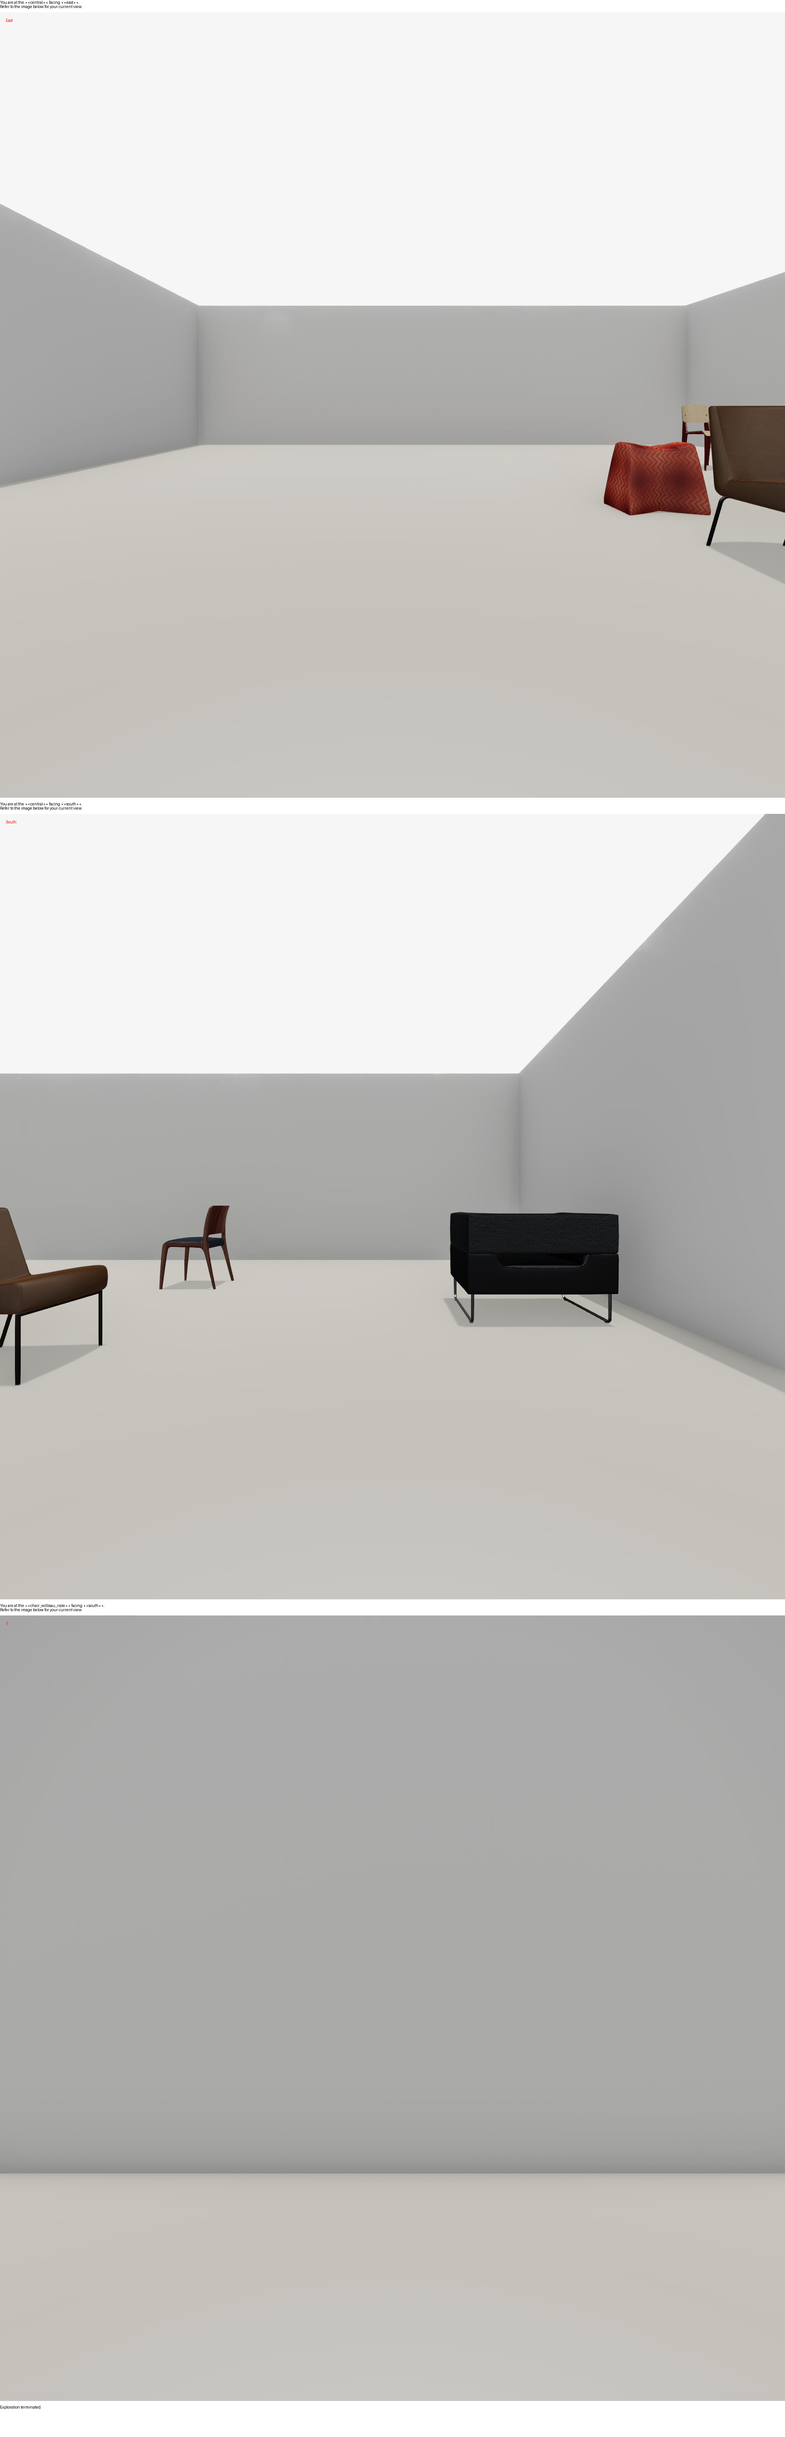
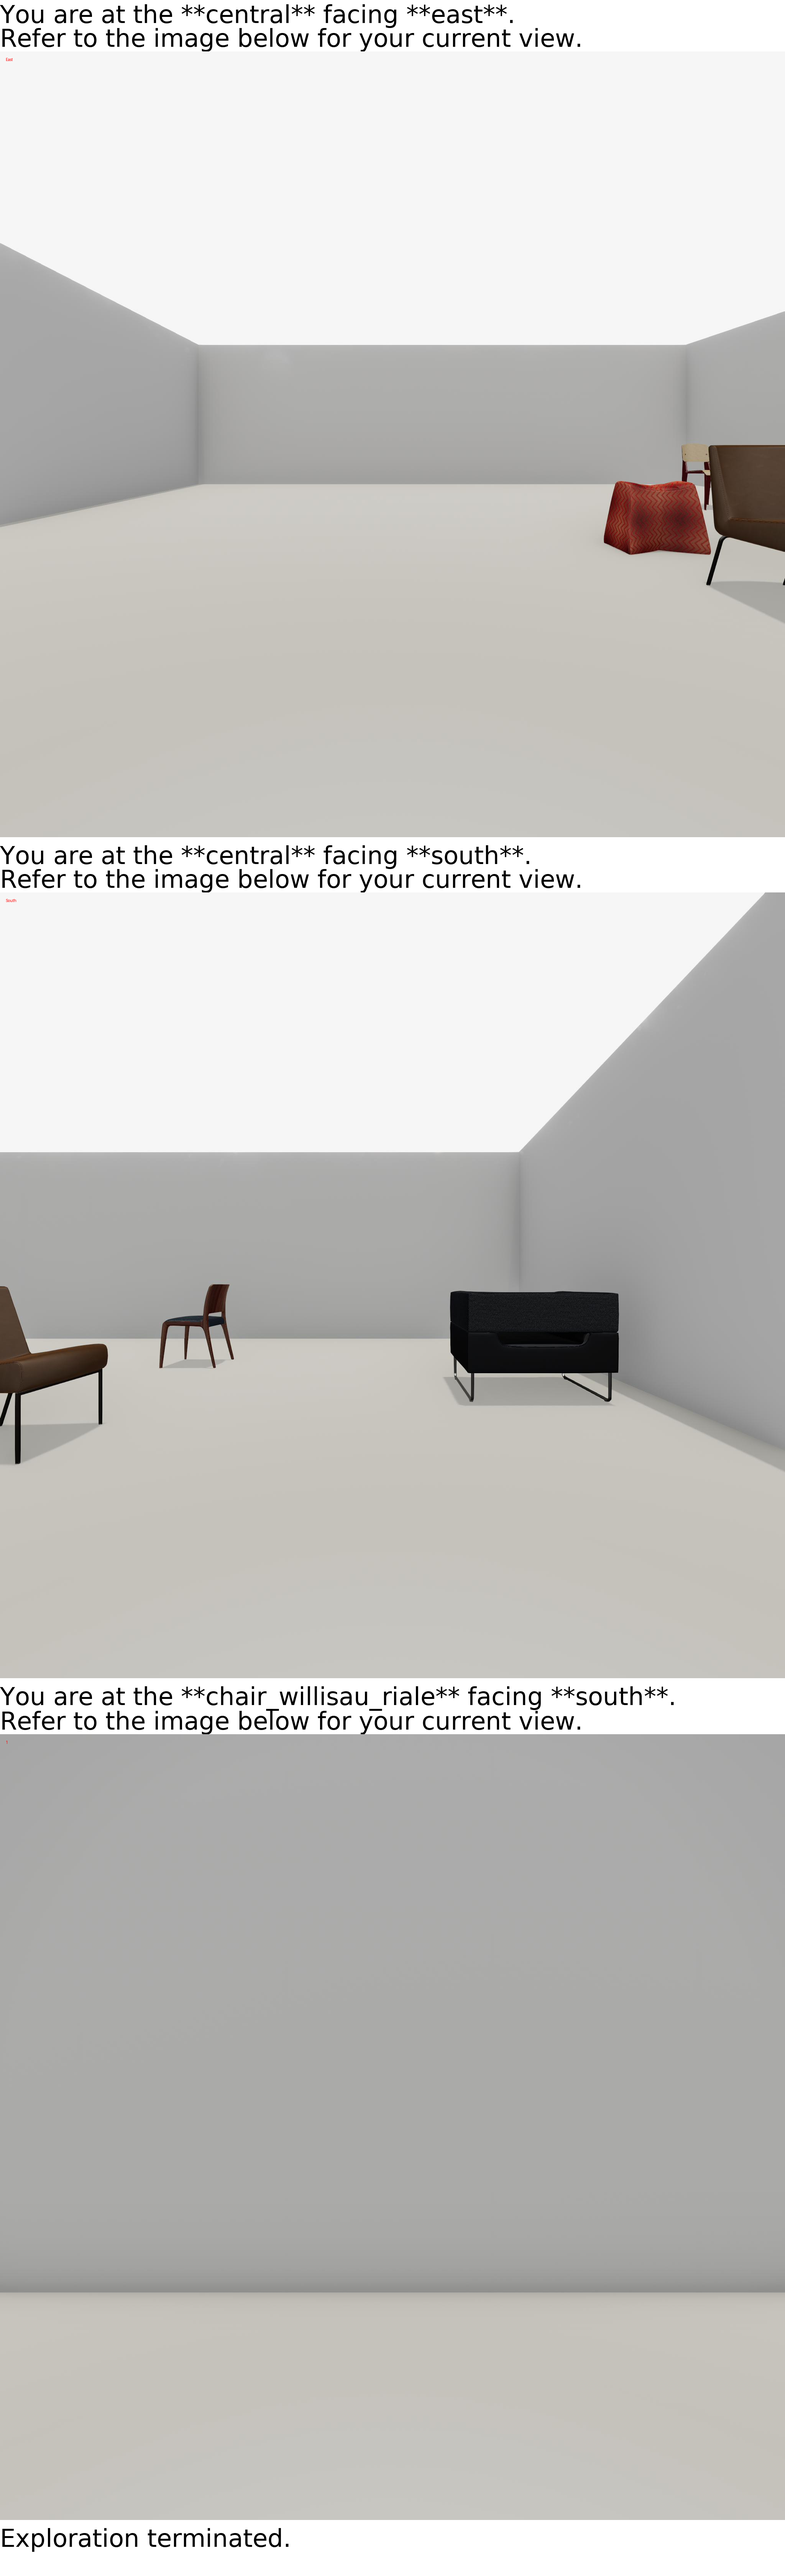
update

diff --git a/vagen/env/spatial/visualization.py b/vagen/env/spatial/visualization.py
@@ -13,6 +13,7 @@ def visualize_turns(
     Given a list of turn dictionaries of the form:
         {
             'obs_str': str,
+            'prompt': str,            # alternative key
             'multi_modal_data': { placeholder: [PIL.Image, ...], ... }
         }
     Produce per-turn images and a combined mosaic.
@@ -23,91 +24,105 @@ def visualize_turns(
                    otherwise take the first list of PIL.Images found.
         spacing: Pixel spacing between text and images, and between images.
         background_color: RGB tuple for canvas background.
+        font_path: Optional path to a .ttf font file. Uses DejaVuSans if None.
+        font_size: Font size in points for rendering text.
 
     Returns:
         Either a list of PIL.Image (one per turn), or a single merged PIL.Image
         stacking all turns vertically.
     """
-    font = ImageFont.truetype("DejaVuSans.ttf", 65)
-    per_turn_images: List[Image.Image] = []
-    per_turn_images: List[Image.Image] = []
+    # Load font
+    try:
+        font = ImageFont.truetype("DejaVuSans.ttf", 64)
+    except Exception:
+        font = ImageFont.load_default()
 
-    # Helper to render one turn
+    per_turn_images: List[Image.Image] = []
+    # Iterate turns
     for turn in turns:
-        # support non-dict entries by wrapping them
+        # Wrap non-dict
         if not isinstance(turn, dict):
-            turn = {'prompt': str(turn), 'multi_modal_data': {}}
-        # begin per-turn rendering
-        # 1) extract text
-        text = turn.get('prompt', '')
-        # 2) extract image list
+            turn = {'obs_str': str(turn), 'multi_modal_data': {}}
+        # Extract text
+        text = turn.get('obs_str') or turn.get('prompt', '')
+        # Extract images
         imgs = []
         modal = turn.get('multi_modal_data', {})
-        # Handle different formats of multi_modal_data
-        from PIL import Image as _PILImage
-        # If modal is a single PIL image, wrap it
-        if isinstance(modal, _PILImage.Image):
+        # Single image
+        if isinstance(modal, Image.Image):
             imgs = [modal]
+        # List of images
+        elif isinstance(modal, list) and modal and isinstance(modal[0], Image.Image):
+            imgs = modal
+        # Dict of lists
+        elif isinstance(modal, dict):
+            if image_key and image_key in modal and isinstance(modal[image_key], list):
+                imgs = modal[image_key]
+            else:
+                for v in modal.values():
+                    if isinstance(v, list) and v and isinstance(v[0], Image.Image):
+                        imgs = v
+                        break
+        if not imgs:
+            # blank placeholder
+            imgs = [Image.new('RGB', (64, 64), background_color)]
 
-        # compute sizes
-        # text size
+        # Prepare text measurement
+        # Split lines
+        lines = text.splitlines() or ['']
         dummy = Image.new('RGB', (1, 1))
-        draw = ImageDraw.Draw(dummy)
-        text_lines = text.splitlines() or ['']
+        measurer = ImageDraw.Draw(dummy)
         text_width = 0
         text_height = 0
-        line_heights = []
-        for line in text_lines:
-            bbox = draw.textbbox((0, 0), line, font=font)
+        line_sizes = []
+        for line in lines:
+            bbox = measurer.textbbox((0, 0), line, font=font)
             w = bbox[2] - bbox[0]
             h = bbox[3] - bbox[1]
             text_width = max(text_width, w)
             text_height += h
-            line_heights.append(h)
+            line_sizes.append((w, h))
 
-        # images combined width and max height
+        # Images layout
         img_widths = [im.width for im in imgs]
         img_heights = [im.height for im in imgs]
         total_img_width = sum(img_widths) + spacing * (len(imgs) - 1)
         max_img_height = max(img_heights)
 
-        # canvas size
+        # Canvas dimensions
         canvas_width = max(text_width, total_img_width)
         canvas_height = text_height + spacing + max_img_height
-
-        # create turn canvas
         canvas = Image.new('RGB', (canvas_width, canvas_height), background_color)
         draw = ImageDraw.Draw(canvas)
 
-        # draw text
-        y_offset = 0
-        for i, line in enumerate(text_lines):
-            draw.text((0, y_offset), line, fill=(0, 0, 0), font=font)
-            y_offset += line_heights[i]
+        # Draw text lines
+        y = 0
+        for idx, line in enumerate(lines):
+            draw.text((0, y), line, fill=(0, 0, 0), font=font)
+            y += line_sizes[idx][1]
 
-        # paste images centered below text
-        x_offset = (canvas_width - total_img_width) // 2
-        y_offset = text_height + spacing
+        # Paste images
+        x = (canvas_width - total_img_width) // 2
+        y = text_height + spacing
         for im in imgs:
-            canvas.paste(im, (x_offset, y_offset))
-            x_offset += im.width + spacing
+            canvas.paste(im, (x, y))
+            x += im.width + spacing
 
         per_turn_images.append(canvas)
 
-    # now merge vertically
+    # Merge into one mosaic
     if not per_turn_images:
         return []
-    # single tall canvas
-    total_height = sum(img.height for img in per_turn_images) + spacing * (len(per_turn_images) - 1)
-    max_width = max(img.width for img in per_turn_images)
-    merged = Image.new('RGB', (max_width, total_height), background_color)
-
+    total_h = sum(im.height for im in per_turn_images) + spacing * (len(per_turn_images) - 1)
+    max_w = max(im.width for im in per_turn_images)
+    mosaic = Image.new('RGB', (max_w, total_h), background_color)
     y = 0
-    for img in per_turn_images:
-        merged.paste(img, (0, y))
-        y += img.height + spacing
+    for im in per_turn_images:
+        mosaic.paste(im, (0, y))
+        y += im.height + spacing
 
-    return merged
+    return mosaic
+
 
 if __name__ == "__main__":
     # Simple test for visualize_turns utility
@@ -121,13 +136,9 @@ if __name__ == "__main__":
         {'obs_str': 'Second turn observation text', 'multi_modal_data': {'image': [img2, img1]}},
     ]
     # Generate visualization
-    merged = visualize_turns(turns, image_key='image')
+    mosaic = visualize_turns(turns, image_key='image', font_size=32)
     # Save outputs
     os.makedirs('test_output', exist_ok=True)
-    # Save individual turn images
-    per_turn = [merged] if not isinstance(merged, list) else merged
-    for idx, im in enumerate(per_turn, 1):
-        path = os.path.join('test_output', f'turn_{idx}.png')
-        im.save(path)
-        print(f"Saved test_output/turn_{idx}.png")
-    print("visualize_turns test completed.")
+    path = os.path.join('test_output', 'trajectory_mosaic.png')
+    mosaic.save(path)
+    print(f"Saved {path}")
